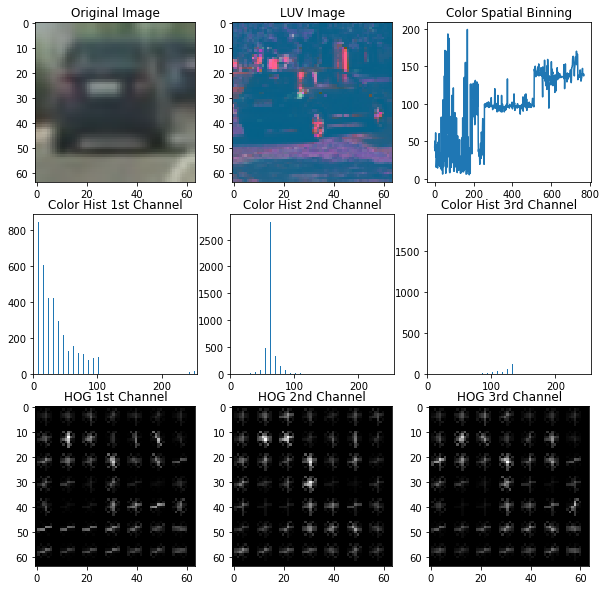
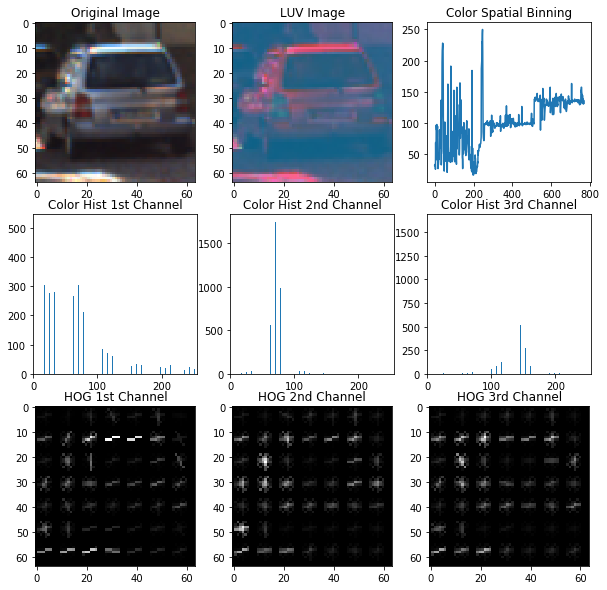
Correcting classifier images

diff --git a/classifier_trainer.py b/classifier_trainer.py
@@ -18,7 +18,7 @@ import sklearn.utils as utils
 import matplotlib.pyplot as plt
 
 
-prototype = False
+prototype = True
 # Read in cars and notcars
 images = glob.glob('*vehicles/*/*/*')
 cars = []
@@ -37,6 +37,7 @@ if prototype == True:
 
 # Define parameters for feature extraction
 color_spaces = ['RGB','HSV','LUV','HLS','YUV','YCrCb']  # Can be RGB, HSV, LUV, HLS, YUV, YCrCb
+color_spaces= ['LUV']
 orient = 9  # HOG orientations
 pix_per_cell = 9 # HOG pixels per cell
 cell_per_block = 2 # HOG cells per block
@@ -72,7 +73,7 @@ for color_space in color_spaces:
         if len(hog_features) == 0:
             plt.imshow(hog_features)
         else:
-            image = cv2.imread(cars[0])
+            image = cv2.imread(cars[-1])
             image = cv2.cvtColor(image, cv2.COLOR_BGR2RGB)
             bin_edges = channels_hist[0][1]
             bin_centers = (bin_edges[1:]  + bin_edges[0:len(bin_edges)-1])/2
@@ -149,7 +150,7 @@ for color_space in color_spaces:
         
         idx = 1
         plt.subplot(rows, cols, idx)
-        image = cv2.imread(cars[0])
+        image = cv2.imread(cars[-1])
         image = cv2.cvtColor(image, cv2.COLOR_BGR2RGB)
         plt.imshow(image)
         plt.title('Original Image')
